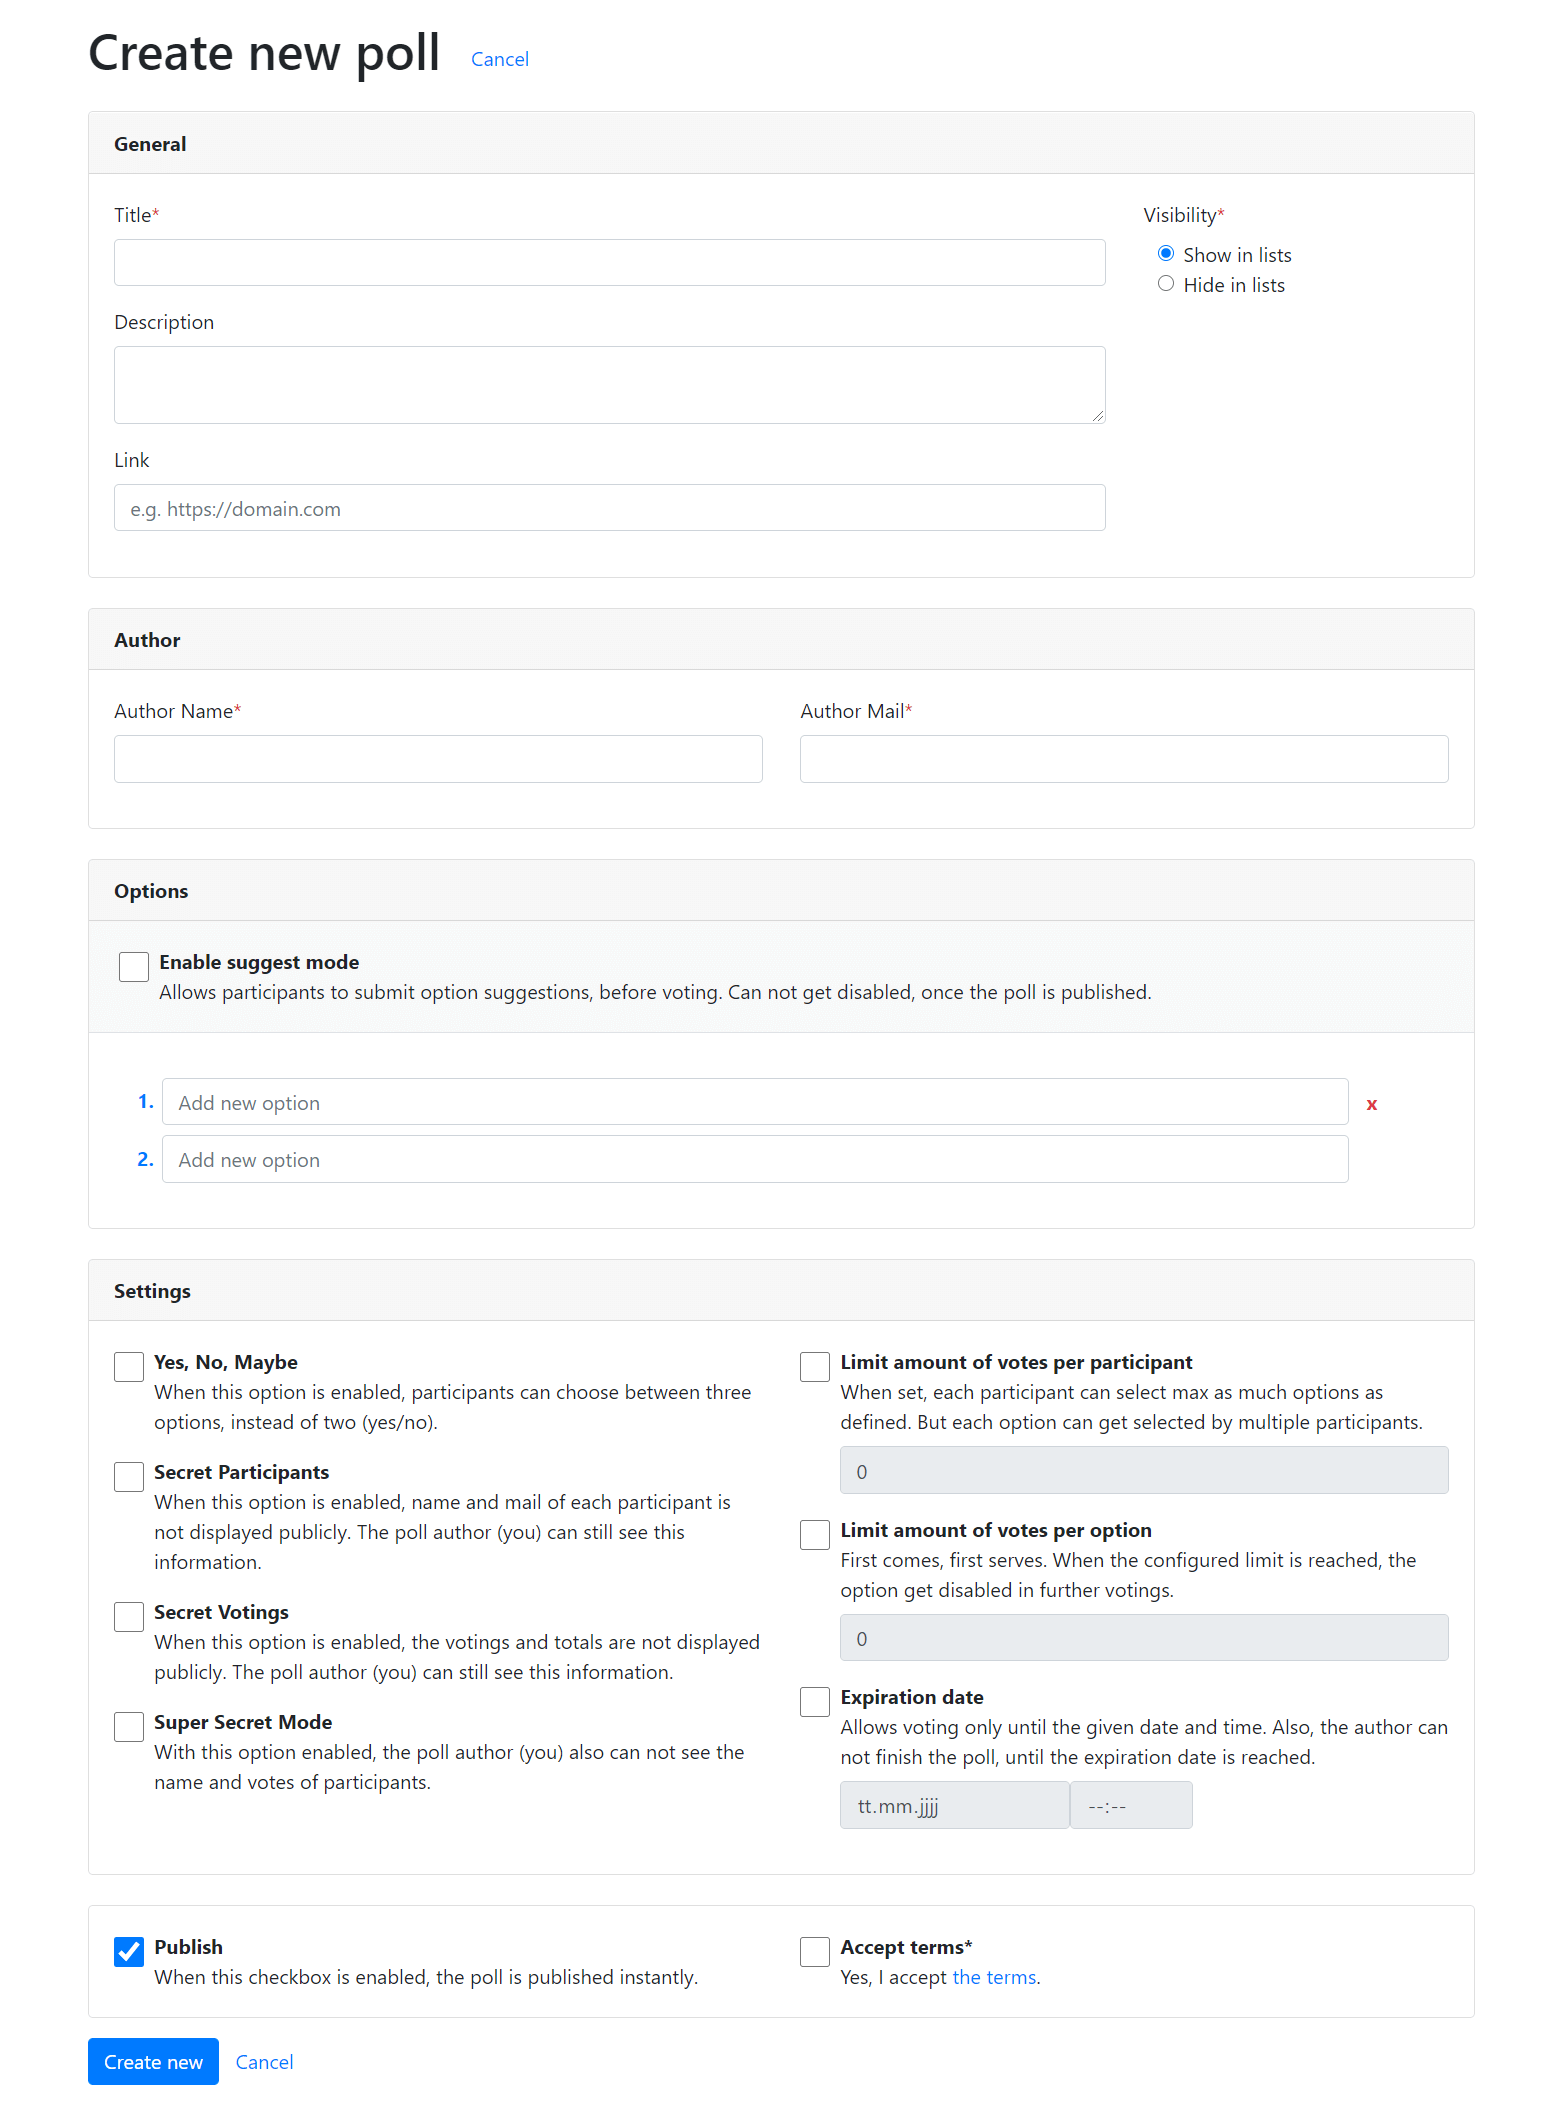
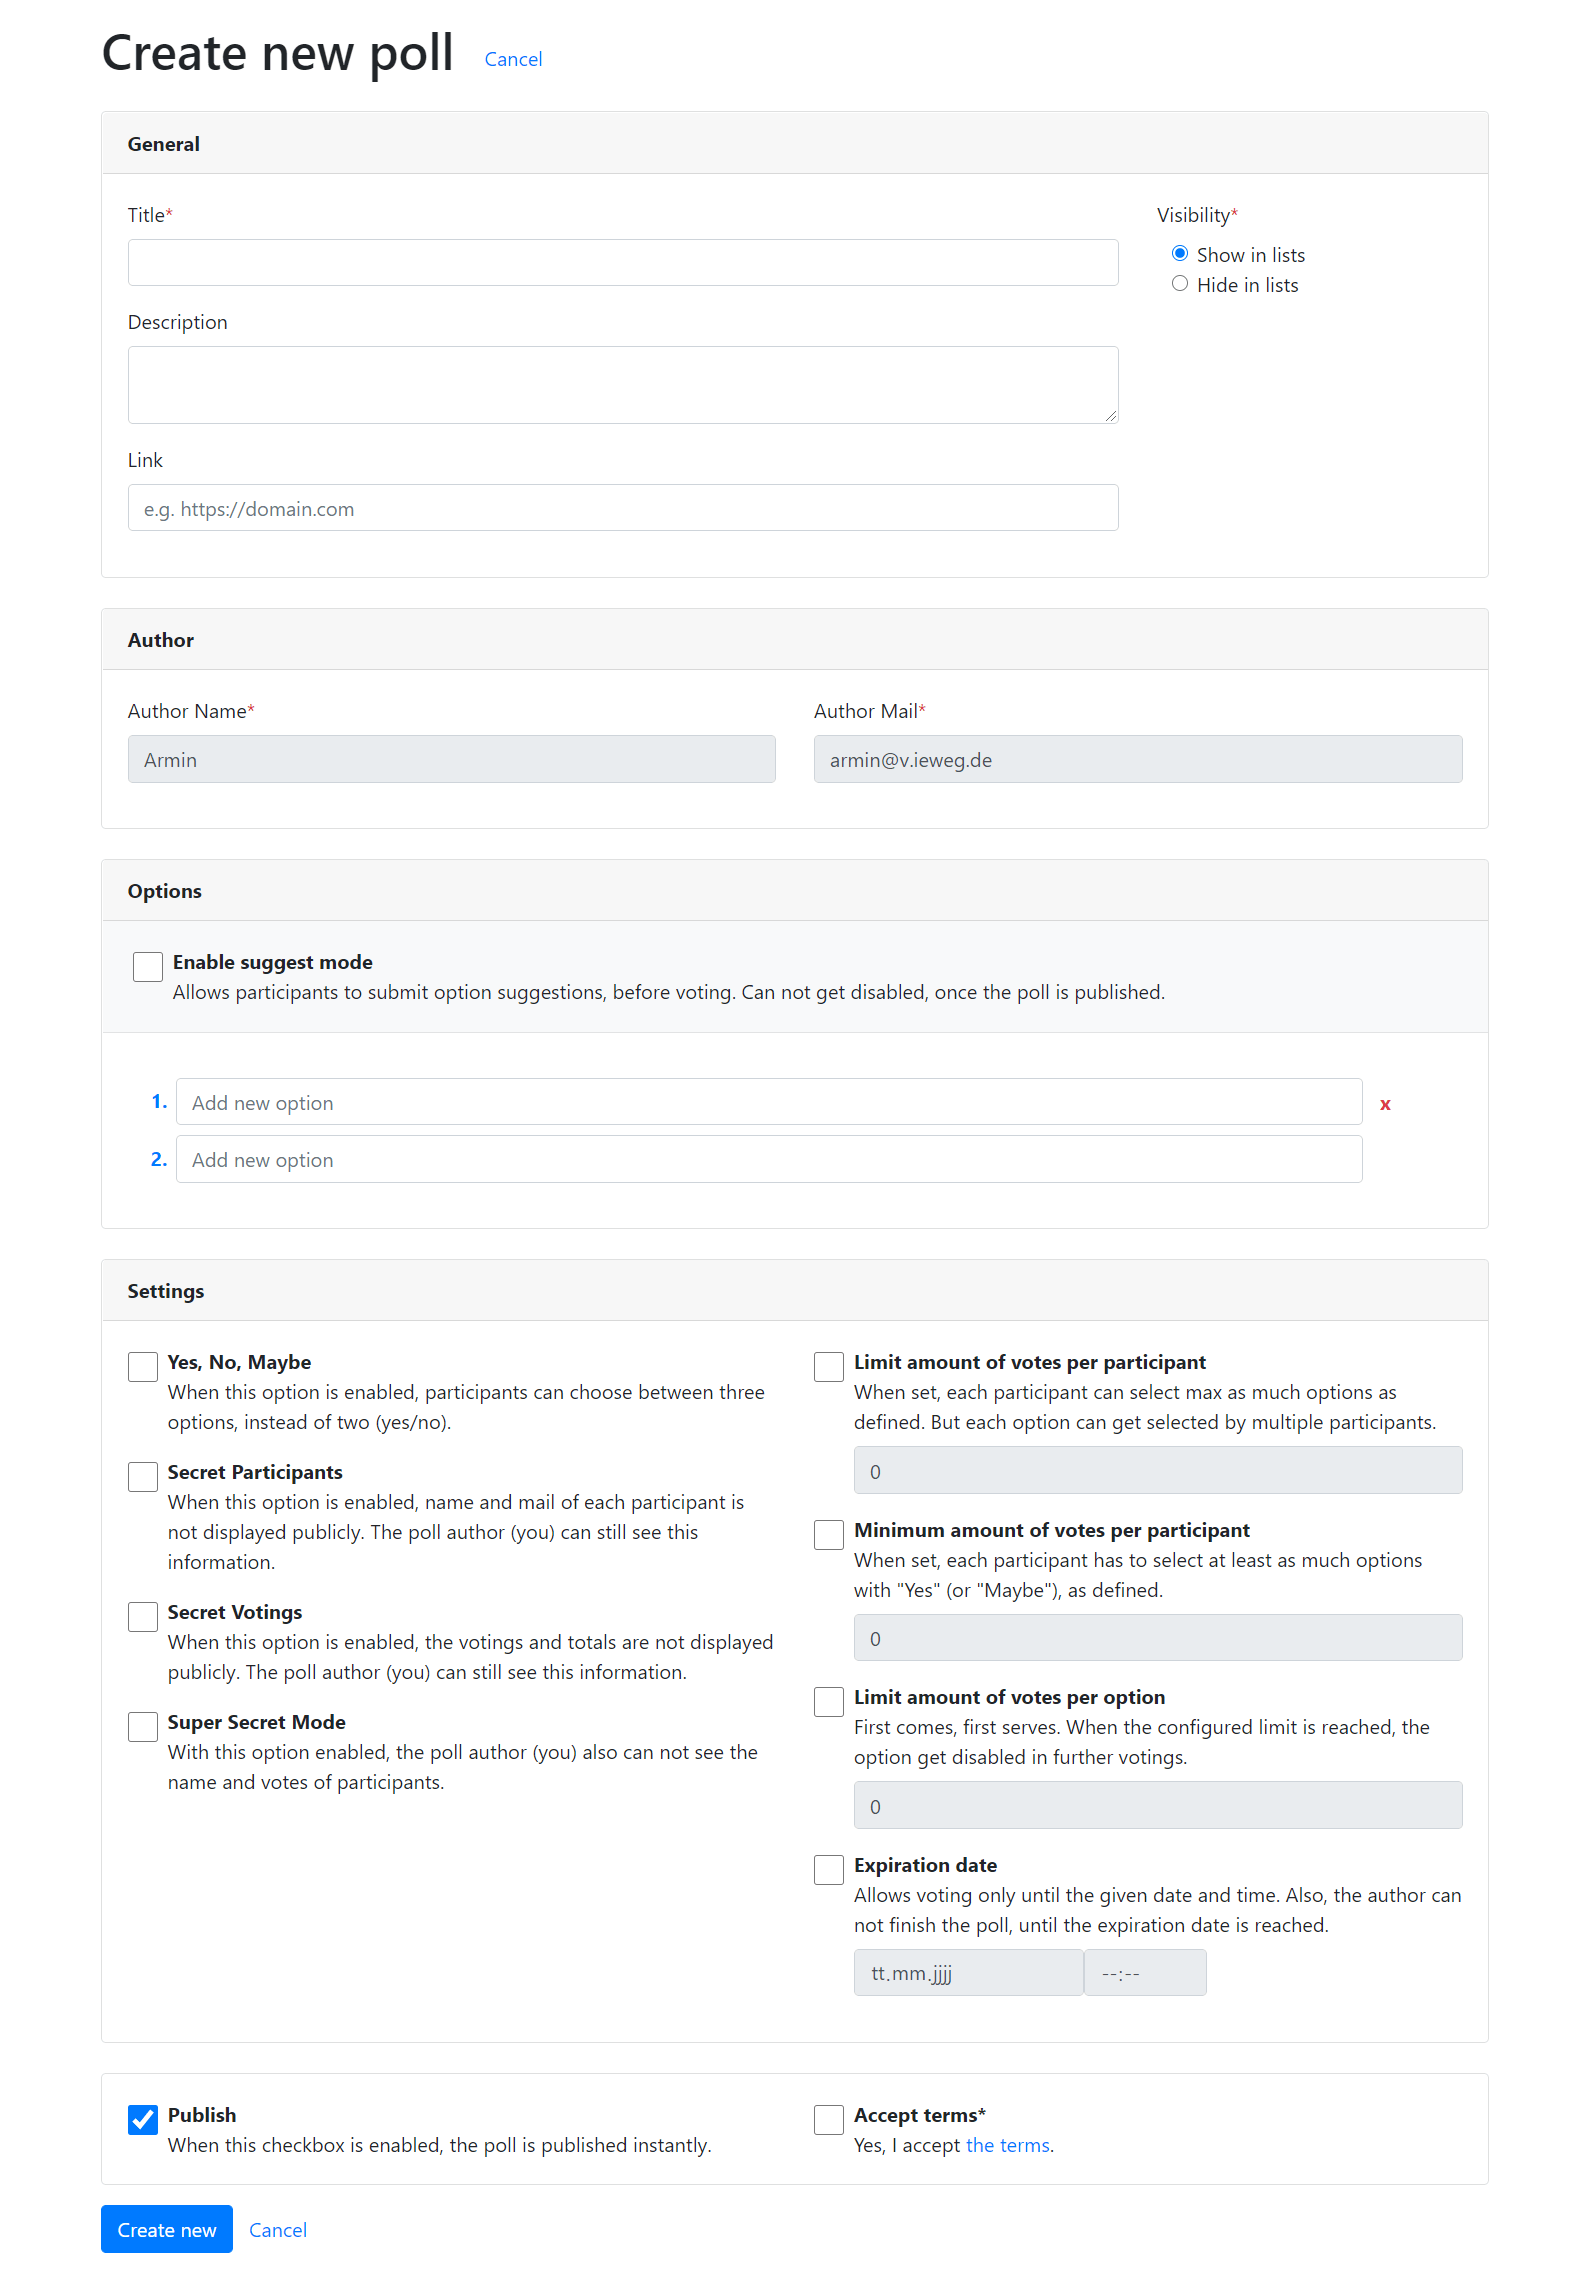
[FEATURE] New poll setting "settingMinVotesPerParticipant"
Also, when "settingMaxVotesPerParticipant" is 1, the t3oodle checkboxes
are rendered as options (to visually indicate single selection).

And use badges for displaying pull summary (left side of voting button).

diff --git a/Resources/Private/Partials/Poll/Voting/Summary/PollNotFinished.html b/Resources/Private/Partials/Poll/Voting/Summary/PollNotFinished.html
@@ -3,13 +3,25 @@
       data-namespace-typo3-fluid="true">
 
 <div class="text-right mt-2">
+    <f:if condition="{poll.settingMaxVotesPerParticipant} > 0 || {poll.settingMinVotesPerParticipant} > 0">
+        <span class="text-dark mr-1">
+            <f:translate key="label.notes" />:
+        </span>
+    </f:if>
+
+    <f:if condition="{poll.settingMinVotesPerParticipant} > 0">
+        <span class="text-dark mr-1 badge badge-outline-dark px-3 py-2 font-weight-normal">
+            <f:translate key="label.minVotesPerParticipant" arguments="{0: '{poll.settingMinVotesPerParticipant}'}" />
+        </span>
+    </f:if>
+
     <f:if condition="{poll.settingMaxVotesPerParticipant} > 0">
         <f:then>
-            <span class="text-dark mr-2">
+            <span class="text-dark mr-1 badge badge-outline-dark px-3 py-2 font-weight-normal">
                 <f:translate key="label.maxVotesPerParticipant" arguments="{0: '{poll.settingMaxVotesPerParticipant}'}" />
             </span>
             <f:if condition="{vote.uid}">
-                <span class="text-already-voted mr-2"><f:translate key="label.youveVoted" /></span>
+                <span class="text-already-voted mr-2 badge badge-outline-success px-3 py-2 font-weight-normal"><f:translate key="label.youveVoted" /></span>
             </f:if>
             <f:if condition="{poll.settingMaxVotesPerParticipant} > 1">
                 <span id="t3oodle-votes-summary"></span>
@@ -17,7 +29,7 @@
         </f:then>
         <f:else>
             <f:if condition="{vote.uid}">
-                <span class="text-already-voted mr-2"><f:translate key="label.youveVoted" /></span>
+                <span class="text-already-voted mr-2 badge badge-outline-success px-3 py-2 font-weight-normal"><f:translate key="label.youveVoted" /></span>
             </f:if>
             <span id="t3oodle-votes-summary"></span>
         </f:else>
@@ -31,9 +43,9 @@
         </f:then>
         <f:else>
             <f:if condition="{poll.availableOptions -> f:count()} == 0">
-                            <span class="my-5">
-                                <f:translate key="label.limitPerOptionsReached" arguments="{0: '{poll.settingMaxVotesPerOption}'}" />
-                            </span>
+                <span class="my-5">
+                    <f:translate key="label.limitPerOptionsReached" arguments="{0: '{poll.settingMaxVotesPerOption}'}" />
+                </span>
             </f:if>
             <f:form.submit class="btn btn-light button-vote" value="{f:translate(key:'label.votingDisabled')}" disabled="disabled" />
         </f:else>

diff --git a/Resources/Private/Partials/Poll/FormFields/Settings.html b/Resources/Private/Partials/Poll/FormFields/Settings.html
@@ -64,6 +64,20 @@
                     </label>
                 </div>
                 <div class="form-check mb-3">
+                    <f:form.checkbox name="enableSettingMinVotesPerParticipant" value="1" checked="{poll.settingMinVotesPerParticipant} > 0" class="form-check-input mr-3 larger" id="t3oodle-poll-enableSettingMinVotesPerParticipant" />
+                    <label class="form-check-label" for="t3oodle-poll-enableSettingMinVotesPerParticipant">
+                        <strong><f:translate key="poll.settingMinVotesPerParticipant.title" /></strong>
+                        <f:if condition="{poll.votes -> f:count()} > 0"> <span class="badge badge-warning mx-2 text-uppercase"><f:translate key="label.caution" /></span></f:if>
+                        <br>
+                        <f:translate key="poll.settingMinVotesPerParticipant.description" /><br>
+                        <f:if condition="{poll.settingMinVotesPerParticipant} > 0">
+                            <f:then><f:form.textfield type="number" id="t3oodle-poll-settingMinVotesPerParticipant" class="form-control mt-2" property="settingMinVotesPerParticipant" data="{bind-disable:'#t3oodle-poll-enableSettingMinVotesPerParticipant'}" additionalAttributes="{min:'0'}" /></f:then>
+                            <f:else><f:form.textfield type="number" id="t3oodle-poll-settingMinVotesPerParticipant" class="form-control mt-2" readonly="readonly" property="settingMinVotesPerParticipant" data="{bind-disable:'#t3oodle-poll-enableSettingMinVotesPerParticipant'}" additionalAttributes="{min:'0'}" /></f:else>
+                        </f:if>
+                        <f:render partial="FormFieldErrors" arguments="{for: 'poll.settingMinVotesPerParticipant'}" />
+                    </label>
+                </div>
+                <div class="form-check mb-3">
                     <f:form.checkbox name="enableSettingMaxVotesPerOption" value="1" checked="{poll.settingMaxVotesPerOption} > 0" class="form-check-input mr-3 larger" id="t3oodle-poll-enableSettingMaxVotesPerOption" />
                     <label class="form-check-label" for="t3oodle-poll-enableSettingMaxVotesPerOption">
                         <strong><f:translate key="poll.settingMaxVotesPerOption.title" /></strong>

diff --git a/Resources/Public/Stylesheets/t3oodle.css b/Resources/Public/Stylesheets/t3oodle.css
@@ -139,6 +139,10 @@ ol.t3oodle-options-per-day > li:last-child button.t3oodle-poll-option-remove {
     padding: 2px;
 }
 
+.tx-t3oodle .t3oodle-voting-image.one-option-only {
+    border-radius: 999rem;
+}
+
 .tx-t3oodle .t3oodle-voting-image:hover {
     border-color: rgba(0, 0, 0, 0.4);
     -webkit-transition: border-color 0.25s;
@@ -286,4 +290,13 @@ ol.t3oodle-options-per-day > li:last-child button.t3oodle-poll-option-remove {
     bottom: 0.1rem;
     font-size: 0.8rem;
     color: var(--secondary);
+}
+
+.tx-t3oodle .badge.badge-outline-success {
+    border: 1px solid var(--success);
+    color: var(--success);
+}
+
+.tx-t3oodle .badge.badge-outline-dark {
+    border: 1px solid var(--gray);
 }

diff --git a/Resources/Public/JavaScript/t3oodle/voting-box.js b/Resources/Public/JavaScript/t3oodle/voting-box.js
@@ -10,6 +10,9 @@ tx_t3oodle._buildVotingBox = function (checkbox) {
   image.alt = checkbox.value;
   image.tabIndex = 2
   image.classList.add('t3oodle-voting-image');
+  if (checkbox.classList.contains('one-option-only')) {
+    image.classList.add('one-option-only');
+  }
 
   var event = function (event) {
     if (event.key && event.keyCode !== 32) { // Space

diff --git a/Configuration/TCA/tx_t3oodle_domain_model_poll.php b/Configuration/TCA/tx_t3oodle_domain_model_poll.php
@@ -49,7 +49,7 @@ return [
             'showitem' => 'author,--linebreak--,author_name,author_mail,author_ident'
         ],
         'settings' => [
-            'showitem' => 'setting_tristate_checkbox, --linebreak--, setting_max_votes_per_option, --linebreak--, ' .
+            'showitem' => 'setting_tristate_checkbox, --linebreak--, setting_min_votes_per_participant,setting_max_votes_per_participant, --linebreak--, ' .
                 'setting_max_votes_per_option, --linebreak--, setting_secret_participants, setting_secret_votings, setting_super_secret_mode, ' .
                 '--linebreak--, setting_voting_expires_date, setting_voting_expires_time'
         ],
@@ -344,6 +344,16 @@ return [
         'setting_max_votes_per_participant' => [
             'exclude' => true,
             'label' => $ll('setting_max_votes_per_participant'),
+            'config' => [
+                'type' => 'input',
+                'eval' => 'int',
+                'default' => '0',
+                'size' => 3
+            ],
+        ],
+        'setting_min_votes_per_participant' => [
+            'exclude' => true,
+            'label' => $ll('setting_min_votes_per_participant'),
             'config' => [
                 'type' => 'input',
                 'eval' => 'int',

diff --git a/Classes/Domain/Model/Poll.php b/Classes/Domain/Model/Poll.php
@@ -105,6 +105,11 @@ class Poll extends AbstractEntity
     protected $settingMaxVotesPerParticipant = 0;
 
     /**
+     * @var int
+     */
+    protected $settingMinVotesPerParticipant = 0;
+
+    /**
      * @var bool
      */
     protected $settingSecretParticipants = false;
@@ -367,6 +372,16 @@ class Poll extends AbstractEntity
         $this->settingMaxVotesPerParticipant = $settingMaxVotesPerParticipant;
     }
 
+    public function getSettingMinVotesPerParticipant(): int
+    {
+        return $this->settingMinVotesPerParticipant;
+    }
+
+    public function setSettingMinVotesPerParticipant(int $settingMinVotesPerParticipant): void
+    {
+        $this->settingMinVotesPerParticipant = $settingMinVotesPerParticipant;
+    }
+
     public function isSettingSecretParticipants(): bool
     {
         return $this->settingSecretParticipants;
@@ -579,6 +594,7 @@ class Poll extends AbstractEntity
         // Check related poll settings (all but expiration date)
         $attributes = [
             'settingMaxVotesPerParticipant',
+            'settingMinVotesPerParticipant',
             'settingMaxVotesPerOption',
             'settingTristateCheckbox',
             'settingSecretParticipants',

diff --git a/Classes/Domain/Validator/CustomVoteValidator.php b/Classes/Domain/Validator/CustomVoteValidator.php
@@ -72,6 +72,28 @@ class CustomVoteValidator extends AbstractValidator
             }
         }
 
+        // Min votes per participant
+        if ($value->getPoll() && $value->getPoll()->getSettingMinVotesPerParticipant()) {
+            $amount = 0;
+            foreach ($value->getOptionValues() as $optionValue) {
+                if ('0' !== $optionValue->getValue()) {
+                    ++$amount;
+                }
+            }
+            if ($amount < $value->getPoll()->getSettingMinVotesPerParticipant()) {
+                $isValid = false;
+                $this->result->forProperty('optionValues')->addError(
+                    new Error(
+                        TranslateUtility::translate(
+                            'validation.1618568039',
+                            [$value->getPoll()->getSettingMinVotesPerParticipant()]
+                        ),
+                        1618568039
+                    )
+                );
+            }
+        }
+
         // Max votes per option
         if ($value->getPoll() && $value->getPoll()->getSettingMaxVotesPerOption() > 0) {
             foreach ($value->getOptionValues() as $optionValue) {

diff --git a/Documentation/Usage/CreatingNewPolls.rst b/Documentation/Usage/CreatingNewPolls.rst
@@ -194,6 +194,16 @@ Limit amount of votes per participant
       Each participant can only select as much options as defined. But one option can get selected by multiple participants.
 
 
+.. _minimumAmountOfVotesPerParticipant:
+
+Minimum amount of votes per participant
+"""""""""""""""""""""""""""""""""""""""
+.. container:: table-row
+
+   Description
+      Each participant must select at least as much options as defined.
+
+
 .. _limitAmountOfVotesPerOption:
 
 Limit amount of votes per option
